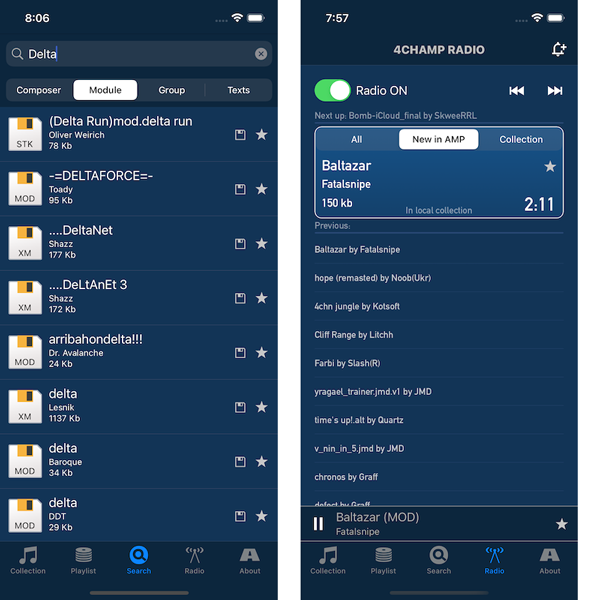
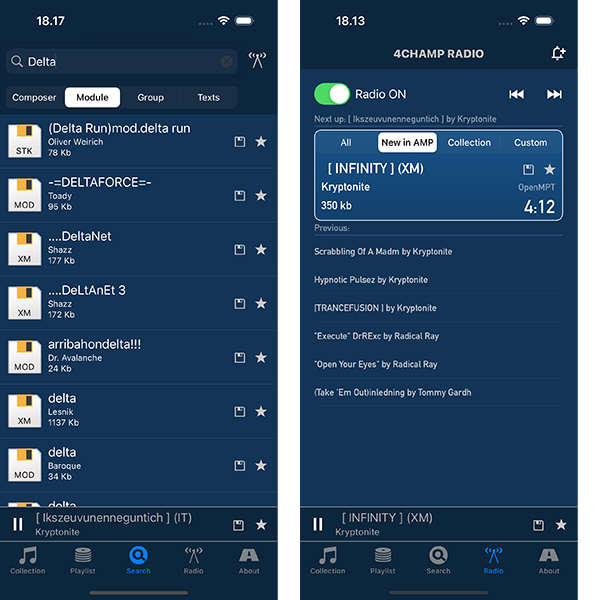
README + screenshots updated

diff --git a/4champ/Scenes/Search/SearchInteractor.swift b/4champ/Scenes/Search/SearchInteractor.swift
@@ -147,7 +147,7 @@ class SearchInteractor: SearchBusinessLogic, SearchDataStore {
     let count = modulePlayer.controlRadio(Radio.Control.Request(state: newState, channel: RadioChannel.selection, selection: newSelection))
     let response = Search.RadioSetup.Response(channelName: newSelection.name,
                                               moduleCount: count,
-                                              appending: request.appending)
+                                              appending: isAppending)
     presenter?.presentRadioResponse(response: response)
   }
 

diff --git a/README.md b/README.md
@@ -19,7 +19,7 @@ You can also follow the 4champ accounts on [X (4champ_app)](https://x.com/4champ
 ### Main Features of the app
 
 - Search: Search the AMP database by module, composer, group name or sampletexts.
-- Radio: You can listen to a random set of tunes from the whole collection of over 150000 modules, or stream from the head, i.e. the most recently added ones. You can also play from the local collection from set of modules that you've selected to keep for offline mode. 
+- Radio: You can listen to a random set of tunes from the whole collection of over 150000 modules, or stream from the head, i.e. the most recently added ones. You can also play from the local collection from set of modules that you've selected to keep for offline mode and build your own custom channels through from search results.
 - Playlists: Build your own playlists from modules.
 - Local Collection: store modules locally - persistent storage for off-line listening of modules.
 - Settings: Control stereo separation, sound interpolation etc.
